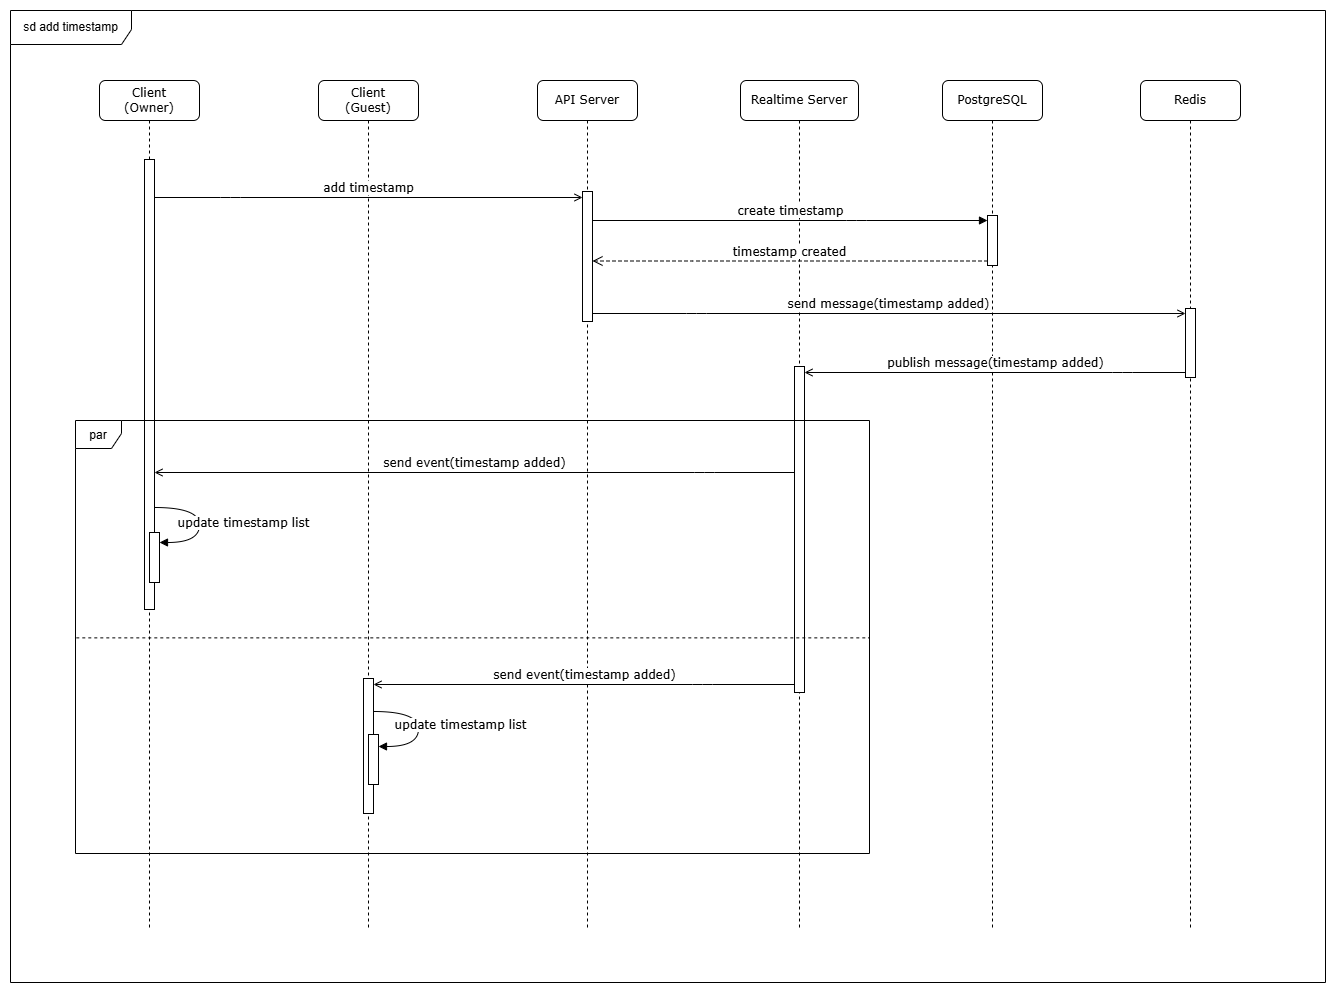
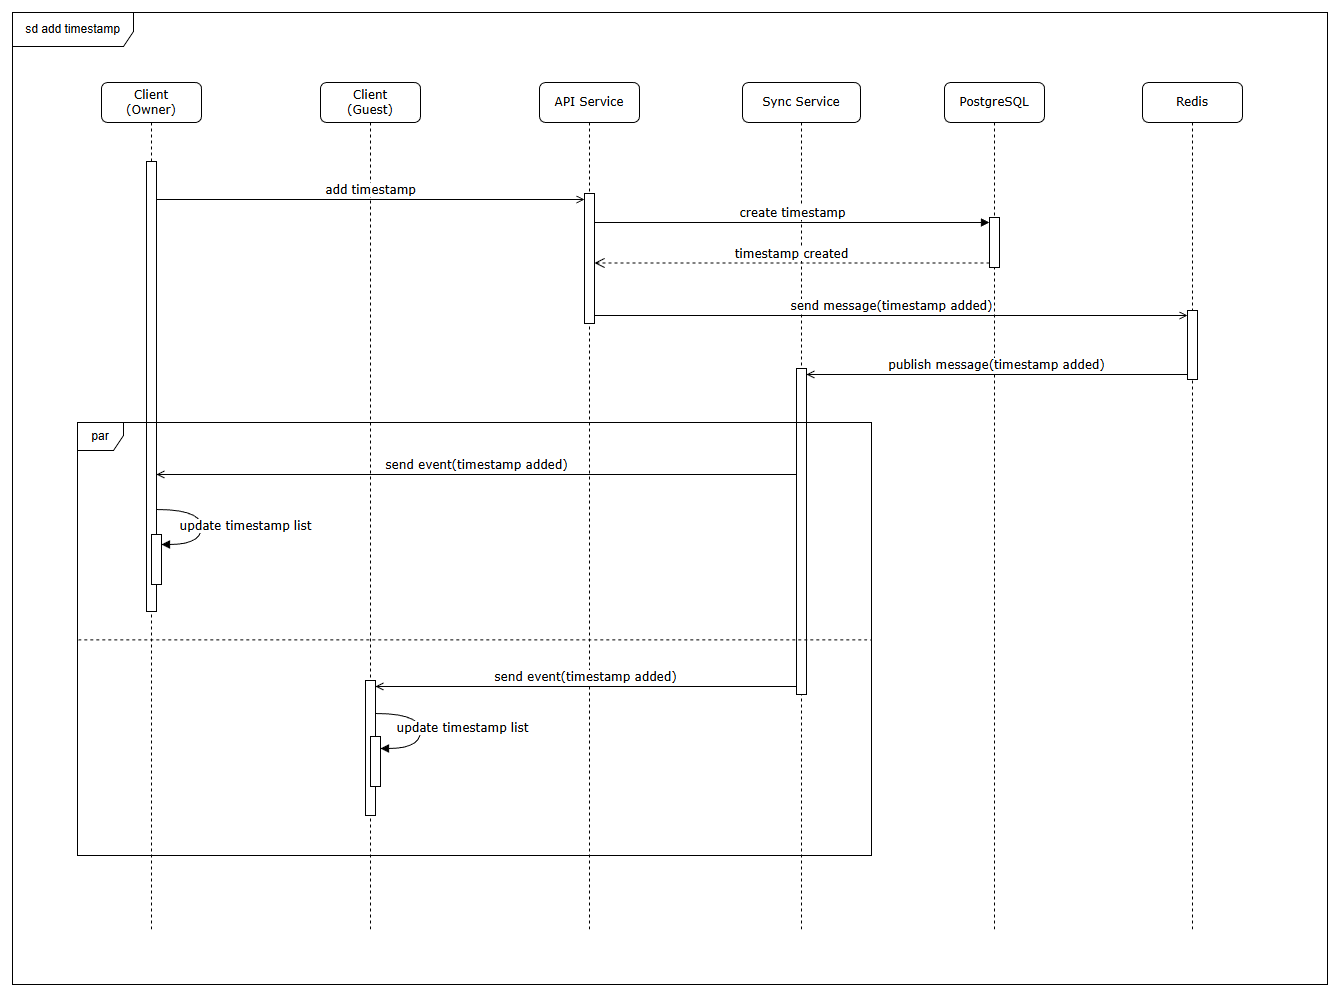
docs: update sequence diagrams for timer functionalities and correct terminology

diff --git a/README.md b/README.md
@@ -20,7 +20,7 @@ The ShareTimer system is composed of the following main components:
 - **Client (Owner / Guest)** — Browser web UI. Opens an SSE stream to receive real‑time events; sends REST requests to modify timers.
 - **API Service** — HTTP REST endpoints for creating timers, adding timestamps, updating timers, and finding timers.
 - **Sync Service (SSE gateway)** — Exposes SSE endpoints for clients to subscribe to timer channels. Delivers ordered events, supports reconnection with `Heartbeat`, and acts as the pub/sub bridge.
-- **Api Gateway** — Act as the single entry point for all client requests. implemented with Spring Cloud Gateway, it routes traffic to the backend services (API Service, Sync Service) and handles cross-cutting concerns.
+- **API Gateway** — Act as the single entry point for all client requests. implemented with Spring Cloud Gateway, it routes traffic to the backend services (API Service, Sync Service) and handles cross-cutting concerns.
 - **Discovery Service** — Service registry server based on Netflix Eureka. It enables dynamic service registration and discovery, allowing microservices to locate each other without hardcoded URLs.
 - **PostgreSQL** — Durable storage for timer records and timestamp history.
 - **Redis** — Handles TTL-based expiration, pub/sub for notifying the Sync Service of events.
@@ -55,12 +55,14 @@ View the realtime event server’s Swagger documentation here:
 
 The user configures a timer and sends a creation request to the API Service.
 The server validates the input, stores the timer in PostgreSQL, and returns a unique shareable Id.
+
 ![Create Timer Sequence](./docs/start-timer-sequnce-diagram.png)
 
 ### Joining a Shared Timer
 
 Another user accesses the timer through its shared link.
 The Client retrieves timer details via the API Service and displays the synchronized countdown UI.
+
 ![Join Timer Sequence](./docs/share-timer-sequnce-diagram.png)
 
 ### Real-Time Synchronization
@@ -68,12 +70,13 @@ The Client retrieves timer details via the API Service and displays the synchron
 Clients connect to the Sync Service via SSE.
 When the owner adds a timestamp or changes the timer, the API Service updates the database and uses Redis to alert the Sync Service.
 All linked clients are instantly informed of any changes to the timer's status, guaranteeing shared real-time consistency.
+
 ![Realtime Sync Sequence 1](./docs/add-timestamp-sequnce-diagram.png)
 ![Realtime Sync Sequence 2](./docs/update-timer-sequnce-diagram.png)
-
 
 ### Timer Expiration & Notification
 
 When the countdown reaches zero, Redis triggers an expiration event.
 Every client modifies their UI in response to a timer-expired event published by the Sync Service.
+
 ![Expiration Sequence](./docs/expire-timer-sequnce-diagram.png)
